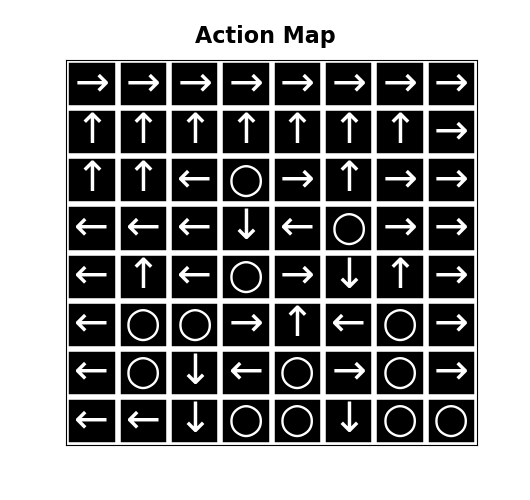
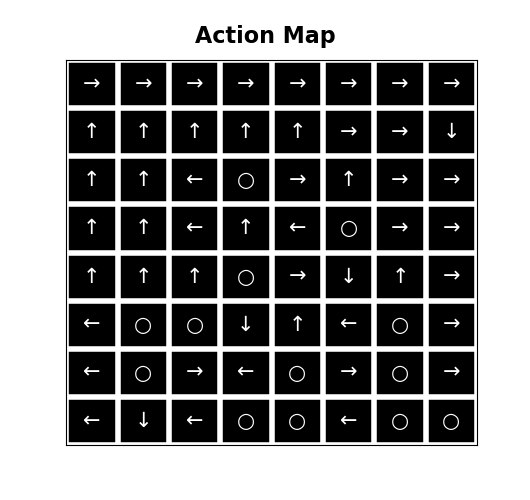
Created script for training TQL model
The script uses a Tabular Q-learning Agent that explores the environment at random and populates a state-action value table, which it laters uses as a policy by selecting the action with the highest value at each state.

diff --git a/03_DeepQ/src/models/train_TQL.py b/03_DeepQ/src/models/train_TQL.py
@@ -1,0 +1,192 @@
+#!/usr/bin/env python
+# -*- coding: utf-8 -*-
+
+import typer
+import pickle
+import gym
+import numpy as np
+import matplotlib.pyplot as plt
+from matplotlib import animation, rc
+import seaborn as sns
+import imageio
+from pathlib import Path
+from collections import defaultdict, Counter
+
+class TabularQLearningAgent():
+    def __init__(self, env_name: str="FrozenLake-v0",
+                       discount_factor: float=0.9,
+                       learning_rate: float=0.2,
+                       value_table: dict={}):
+        self.env = gym.make(env_name)
+        self.df = discount_factor
+        self.lr = learning_rate
+        self.state = self.env.reset()
+        self.values = defaultdict(float, value_table)  # Table of Q values
+
+    def random_step(self):
+        """Play randomly in the environment for one step, resetting if needed.
+        """
+        action = self.env.action_space.sample()
+        old_state = self.state
+        new_state, reward, done, _ = self.env.step(action)
+        self.state = self.env.reset() if done else new_state
+        return old_state, action, reward, new_state
+
+    def update_value(self, state, action, reward, next_state):
+        """Apply the Bellman equation and blending in order to update the
+        learned state-action values.
+        """
+        best_value, _ = self.best_value_and_action(next_state)
+        new_value = reward + self.df * best_value
+        old_value = self.values[(state, action)]
+        self.values[(state, action)] = ((1-self.lr) * old_value +
+                                           self.lr  * new_value)
+
+    def best_value_and_action(self, state):
+        """Considers every action available and selects the one with the
+        greatest Q value.
+        """
+        best_action, best_value = None, None
+        for action in range(self.env.action_space.n):
+            action_value = self.values[(state, action)]
+            if best_action is None or best_value < action_value:
+                best_value = action_value
+                best_action = action
+        return best_value, best_action
+
+    def play_episode(self, env, populate_tables=False):
+        """Play one episode of the environment by selecting actions through the
+        current knowledge accumulated in the value table.
+        """
+        total_reward = 0.0
+        state = env.reset()
+        while True:
+            _, action = self.best_value_and_action(state)
+            new_state, reward, done, _ = env.step(action)
+            total_reward += reward
+            if populate_tables:
+                self.update_value(self, state, action, reward, next_state)
+            if done:
+                break
+            state = new_state
+        return total_reward
+
+    def get_value_table(self):
+        return self.values.copy()
+
+
+def train_TQL(
+    environment: str = typer.Argument("FrozenLake-v0"),
+    learning_rate: float = typer.Option(
+        0.2,
+        show_default=True,
+        help = "Rate of blending for updating old Q values with new ones.",
+        ),
+    discount_factor: float = typer.Option(
+        0.9,
+        show_default=True,
+        help = "Decrease reward of later steps in a trajectory.",
+        ),
+    batch_size: int = typer.Option(
+        20,
+        show_default=True,
+        help = "Number of episodes for testing policy at each iteration.",
+        ),
+    max_iter: int = typer.Option(
+        10000000,
+        show_default=True,
+        help = "Maximum number of iterations to train the model for.",
+        ),
+    reward_objective: float = typer.Option(
+        0.8,
+        show_default=True,
+        help = "Objective of reward aaveraged over a test batch to reach.",
+        ),
+    save: bool = typer.Option(
+        True,
+        show_default=True,
+        help = "Save the trained model to disk.",
+        ),
+    populate_in_test: bool = typer.Option(
+        False,
+        show_default=True,
+        help = "Use data from testing to populate the tables (EXPERIMENTAL).",
+        ),
+    save_name: str = typer.Option(
+        None,
+        show_default=False,
+        help = "Name for the saved model."
+        ),
+    outdir: Path = typer.Option(
+        Path.cwd()/"models",
+        show_default=True,
+        help= ("Output directory for the saving the model " +
+                "[default: ./models]."),
+        ),
+    ):
+    """Train a Tabular Q-learning model by populating value tables.
+
+    The model will first randomly explore the environment for one step, then
+    apply the Bellman equation for updating a state-action value, using a
+    learning rate for blending the old value with the new one, and then test
+    the environment for a certain number of episodes to check whether the
+    convergence conditions are met (average reward). Repeat until done.
+
+    Args:
+        environment (str): name of the Gym environment to train the model on.
+
+    Returns:
+        A defaultdict containing the state-action value table of the
+        environment.
+    """
+
+    typer.echo(f"Training a tabular Q-learning RL model for {environment}")
+
+    # Create environment for testing
+    env = gym.make(environment)
+
+    # Initiate Agent
+    agent = TabularQLearningAgent(environment, learning_rate, discount_factor)
+
+    best_reward = 0.0
+    for iter in range(max_iter):
+        # Explore environment and populate tables by playing randomly
+        state, action, reward, next_state = agent.random_step()
+
+        # Perform the update on the tabular Q values from the step
+        agent.update_value(state, action, reward, next_state)
+
+        # Use the table as a policy for playing a batch of test episodes
+        total_reward = 0.0
+        for episode in range(batch_size):
+            total_reward += agent.play_episode(env)
+        average_reward = total_reward / batch_size
+
+        if average_reward > best_reward:
+            typer.echo(f"Best reward updated {best_reward:6.3f} -> "+
+                       f"{average_reward:6.3f} at iteration {iter:6d}")
+            best_reward = average_reward
+
+        # Chech for the objective
+        if average_reward > reward_objective:
+            typer.echo("Reward objective reached!")
+            break
+
+    typer.echo(f"Process stoped after {iter+1} interations.")
+
+    # Save the model as a pickle file, which will hold the dict with the QF
+    if save:
+        if save_name is None:
+            save_name = f"TQL_table_{environment}.pkl"
+        elif save_name[-4] != ".pkl":
+            save_name += ".pkl"
+        typer.echo(f"Saving model to {outdir/save_name}")
+        with open(outdir/save_name, 'wb') as handle:
+            pickle.dump(agent.get_value_table(),
+                        handle, protocol=pickle.HIGHEST_PROTOCOL)
+
+    return agent.get_value_table()
+
+
+if __name__ == "__main__":
+    typer.run(train_TQL)

diff --git a/03_DeepQ/src/models/train_VI.py b/03_DeepQ/src/models/train_VI.py
@@ -21,7 +21,7 @@ class ValueIterationAgent():
         self.state = self.env.reset()
         self.rewards = defaultdict(float)
         self.transits = defaultdict(Counter)
-        self.values = defaultdict(float)
+        self.values = defaultdict(float, value_table)
 
     def play_random(self, num_steps):
         """Play randomly in the environment, resetting when necessary, while
@@ -170,7 +170,7 @@ def draw_action_map(agent, title="", save_location ="action_map.png"):
             best_action = agent.select_action_ambiguous(state)
             char = arrows[best_action]
             ax.text(x=(j+0.5), y=side-(i+0.5),
-                    s=char, fontsize=30, color="white",
+                    s=char, fontsize=int(120/side), color="white",
                     horizontalalignment='center',
                     verticalalignment='center')
     plt.savefig(save_location)
@@ -184,7 +184,7 @@ def train_VI(
         help = "Number of random steps to explore at each iteration.",
         ),
     discount_factor: float = typer.Option(
-        1.0,
+        0.9,
         show_default=True,
         help = "Decrease reward of later steps in a trajectory.",
         ),
@@ -285,7 +285,7 @@ def train_VI(
             typer.echo("Reward objective reached!")
             break
 
-    typer.echo(f"Process stoped after {iter} interations.")
+    typer.echo(f"Process stoped after {iter+1} interations.")
 
     # Save the model as a pickle file, which will hold the dict with the VF
     if save:
